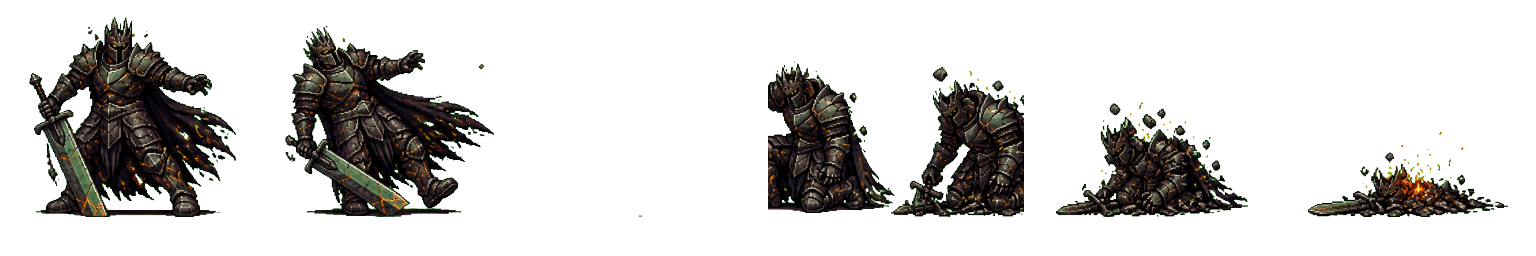
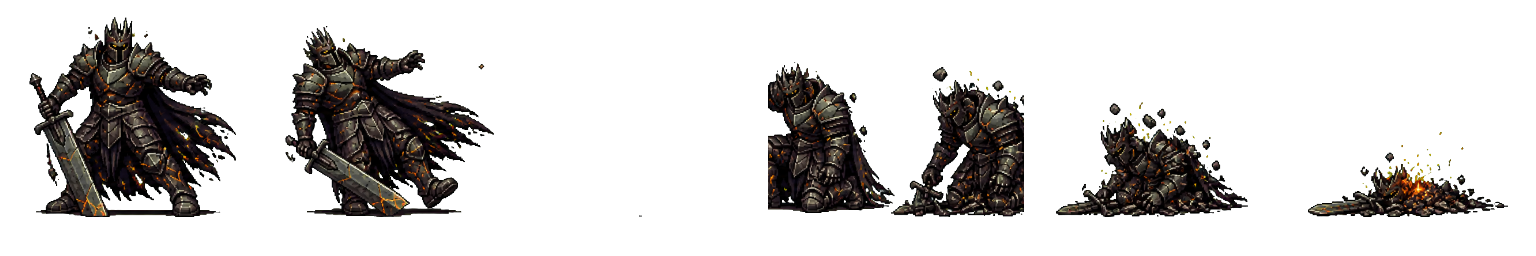
fix: 보스 전환 그림 — 알·깨짐 잘림, 효과 흘러감, 초록 번짐
- 잘림: 그림이 있는 범위를 6등분하던 것(ForceEqualSplit)이 원본 칸 격자와 16~30px 어긋나,
  공이 곧게 잘리고 옆 칸 조각이 비쳤다. 전환 이펙트 셋은 원본 칸(362px) 경계 ±48px에서
  가장 빈 세로줄로 자른다(CellGridSheets)
- 흘러감: 프레임마다 그림 크기로 가운데를 다시 잡아 모임 중심이 6장 동안 54px 흘렀다.
  칸 격자 시트는 원본 칸 안의 자리(가로는 칸 가운데, 세로는 모든 프레임 공통 바닥)를 그대로 옮긴다
- 초록 번짐: 가장자리 보정 식이 항등식((g−(1−α)g)/α = g)이라 아무것도 안 했다.
  초록 배경 원본 뒤에 Despill(G ≤ max(R,B))을 붙였다
- 새 메뉴 그림 → 보스 전환 그림 고치기: 전환 이펙트 3장을 새 방식으로 다시 만들고,
  보스 1페이즈 시트 6장은 배치는 두고 초록 번짐만 뺀다(1페이즈 칼이 잿빛이 된다)

diff --git a/Assets/Editor/AshSpriteSheetNormalizer.cs b/Assets/Editor/AshSpriteSheetNormalizer.cs
@@ -43,10 +43,41 @@ public static class AshSpriteSheetNormalizer
         new System.Collections.Generic.HashSet<string>
         {
             "ash-king-phase2-hit-death.png",
+
+            // 수정(2026-09-21) — 전환 이펙트 셋(gather·egg·shatter)은 여기서 빼서 CellGridSheets로 옮겼다.
+            // 이유는 CellGridSheets 주석에 적었다.
+        };
+
+    /// <summary>
+    /// 추가 생성(2026-09-21, 알·깨짐 잘림) — <b>원본 칸 격자대로</b> 자르고, 칸 안의 자리를 그대로 지키는 시트.
+    ///
+    /// 전환 이펙트 원본은 2172×724 그림에 <b>362px 칸 여섯 개</b>로 그려져 있다. 예전에는 위
+    /// ForceEqualSplit으로 "그림이 있는 범위"(예: x 79~2154)를 6등분했는데, 그 범위는 칸 격자와
+    /// 시작점이 다르고 폭도 달라서 경계가 칸마다 16~30px씩 밀렸다. 그래서 알·깨짐의 공이
+    /// <b>한쪽이 곧게 잘리고, 옆 칸 조각이 칸 오른쪽에 비쳤다.</b>
+    ///
+    /// 여기 적힌 시트는 두 가지가 다르다.
+    /// <list type="bullet">
+    /// <item><b>자르기</b> — 칸 경계(width/프레임 수의 배수) 근처 ±<see cref="CellCutSearch"/>px에서
+    /// 그림이 가장 적은 세로줄을 찾아 자른다. 소용돌이 팔이 칸 경계를 살짝 넘어도 안 잘린다.</item>
+    /// <item><b>자리</b> — 프레임마다 그림 크기로 가운데를 다시 잡지 않고, <b>원본 칸 안의 자리를
+    /// 그대로</b> 옮긴다(가로는 칸 가운데 기준, 세로는 모든 프레임 공통 바닥 기준). 예전에는 팔이 한쪽으로
+    /// 뻗을 때마다 중심이 밀려 모임 효과가 6장 동안 54px 흘러갔다.</item>
+    /// </list>
+    ///
+    /// 칸을 지켜 그린 원본에만 맞는 방식이라 목록으로 적어 둔다. 자동으로 판정하면 캐릭터 시트처럼
+    /// 칸 없이 그려진 원본까지 흔들 수 있다.
+    /// </summary>
+    private static readonly System.Collections.Generic.HashSet<string> CellGridSheets =
+        new System.Collections.Generic.HashSet<string>
+        {
             "vfx_ashking_transition_gather_6frames_1536x256.png",
             "vfx_ashking_transition_egg_6frames_1536x256.png",
             "vfx_ashking_transition_shatter_6frames_1536x256.png",
         };
+
+    /// <summary>추가 생성(2026-09-21) — 칸 경계에서 가장 빈 줄을 찾을 거리(px). 원본 칸(362px)의 약 1/8.</summary>
+    private const int CellCutSearch = 48;
 
     /// <summary>
     /// 배치 방식. 기준점이 서로 다르다.
@@ -363,6 +394,106 @@ public static class AshSpriteSheetNormalizer
     /// 확인해야 한다. 정렬 규칙을 고친 직후에는 특히 나쁘다 — 무엇이 왜 달라진 건지
     /// 구별할 수 없다. PowerShell 정규화 도구에 -Only를 넣었던 것과 같은 판단이다.
     /// </summary>
+    /// <summary>
+    /// 추가 생성(2026-09-21, 페이즈 전환 고치기) — 보스 1페이즈 시트들. 초록 번짐만 빼고 배치는 그대로 둔다.
+    /// </summary>
+    private static readonly string[] BossPhase1Sheets =
+    {
+        "ash-king-idle.png",
+        "ash-king-walk.png",
+        "ash-king-slam.png",
+        "ash-king-ember-wave.png",
+        "ash-king-hit-death.png",
+        "ash-king-phase-transition.png",
+    };
+
+    /// <summary>
+    /// 추가 생성(2026-09-21, 페이즈 전환 고치기) — 전환에 필요한 그림만 한 번에 고친다.
+    ///
+    /// <list type="bullet">
+    /// <item><b>전환 이펙트 3장</b>(모임·알·깨짐) — 원본에서 새 방식(칸 격자로 자르기·칸 안 자리 지키기·
+    /// 초록 번짐 빼기)으로 다시 만든다.</item>
+    /// <item><b>보스 1페이즈 시트 6장</b> — 이미 만들어진 결과 시트에서 <b>초록 번짐만</b> 뺀다.
+    /// 칼날 전체가 초록이던 1페이즈 칼이 잿빛이 된다(사용자 선택 "번진 것이라 회색으로").</item>
+    /// </list>
+    ///
+    /// 1페이즈 시트를 원본부터 다시 정규화하지 않는 이유: 배치까지 다시 하면 발 위치·크기가 조금이라도
+    /// 달라질 수 있고, 그러면 애니메이션·콜라이더를 전부 다시 확인해야 한다. 색만 고치면 그 걱정이 없다.
+    /// 전체 정규화 메뉴를 안 쓰는 이유는 NormalizeSelected 주석과 같다 — 오늘 한 일과 상관없는 시트까지 바뀐다.
+    /// </summary>
+    [MenuItem("Tools/재의 길/그림/보스 전환 그림 고치기")]
+    public static void FixBossTransitionArt()
+    {
+        int remade = 0;
+        foreach (var (folder, source, output, frames, mode, targetHeight) in Jobs)
+        {
+            if (!CellGridSheets.Contains(output)) continue;
+
+            Normalize(folder, source, output, frames, mode, targetHeight);
+            remade++;
+        }
+
+        int cleaned = 0;
+        foreach (string sheet in BossPhase1Sheets)
+        {
+            if (DespillInPlace($"{AshKingFolder}/{sheet}")) cleaned++;
+        }
+
+        AssetDatabase.Refresh();
+        Debug.Log($"[시트 정규화] 보스 전환 그림 고치기: 전환 이펙트 {remade}/{CellGridSheets.Count}장을 다시 만들고, " +
+                  $"보스 1페이즈 시트 {cleaned}/{BossPhase1Sheets.Length}장에서 초록 번짐을 뺐다.\n" +
+                  "다음: Tools → 재의 길 → 애니메이션 → 보스 애니메이션만 생성 → " +
+                  "프리팹 → 보스 전환 다시 만들기 (타임라인 포함)");
+    }
+
+    /// <summary>
+    /// 추가 생성(2026-09-21) — 이미 만들어진 시트 PNG에서 초록 번짐만 빼서 같은 자리에 다시 쓴다.
+    /// 슬라이스 정보는 .meta에 있어서 그대로 남는다. 바뀐 픽셀이 없으면 파일을 건드리지 않는다.
+    /// </summary>
+    /// <returns>파일을 다시 썼으면 true.</returns>
+    private static bool DespillInPlace(string path)
+    {
+        if (!File.Exists(path))
+        {
+            Debug.LogWarning($"[시트 정규화] 초록 번짐을 뺄 시트를 못 찾았다: {path}");
+            return false;
+        }
+
+        var texture = new Texture2D(2, 2, TextureFormat.RGBA32, false);
+        if (!texture.LoadImage(File.ReadAllBytes(path)))
+        {
+            Object.DestroyImmediate(texture);
+            Debug.LogError($"[시트 정규화] PNG 디코딩 실패: {path}");
+            return false;
+        }
+
+        Color32[] pixels = texture.GetPixels32();
+        Color32[] before = (Color32[])pixels.Clone();
+        Despill(pixels);
+
+        bool changed = false;
+        for (int i = 0; i < pixels.Length && !changed; i++)
+        {
+            if (pixels[i].g != before[i].g) changed = true;
+        }
+
+        if (!changed)
+        {
+            Object.DestroyImmediate(texture);
+            return false;
+        }
+
+        texture.SetPixels32(pixels);
+        texture.Apply();
+        byte[] png = texture.EncodeToPNG();
+        Object.DestroyImmediate(texture);
+
+        if (!WritePng(path, png)) return false;
+
+        AssetDatabase.ImportAsset(path, ImportAssetOptions.ForceUpdate);
+        return true;
+    }
+
     [MenuItem("Tools/재의 길/그림/원본 시트 정규화 (고른 것만)")]
     public static void NormalizeSelected()
     {
@@ -441,10 +572,17 @@ public static class AshSpriteSheetNormalizer
         else
         {
             RemoveBackground(pixels);
+
+            // 추가 생성(2026-09-21, 초록 번짐) — 초록 배경을 뺀 뒤 가장자리에 남은 초록기를 누른다.
+            Despill(pixels);
         }
 
+        // 수정(2026-09-21) — 칸 격자 시트인지 한 번만 판단해서 자르기와 배치 양쪽에 같이 넘긴다.
+        // 둘 중 한쪽만 칸 기준이면 자른 조각을 엉뚱한 자리에 놓게 된다.
+        bool cellGrid = CellGridSheets.Contains(outputName);
+
         var figures = FindFigures(pixels, width, height, expectedFrames,
-                                  ForceEqualSplit.Contains(outputName));
+                                  ForceEqualSplit.Contains(outputName), cellGrid);
         if (figures.Count != expectedFrames)
         {
             Debug.LogError($"[시트 정규화] {sourceName}에서 프레임을 {figures.Count}개 만들었는데 " +
@@ -452,7 +590,7 @@ public static class AshSpriteSheetNormalizer
             return;
         }
 
-        Compose(pixels, width, height, figures, folder, outputName, mode, targetHeight);
+        Compose(pixels, width, height, figures, folder, outputName, mode, targetHeight, cellGrid);
     }
 
     // ── 1단계: 배경 제거 ──────────────────────────────────────────────────
@@ -511,10 +649,39 @@ public static class AshSpriteSheetNormalizer
             float alpha = (BackgroundGreenness - greenness) /
                           (float)(BackgroundGreenness - OpaqueGreenness);
 
+            // 수정(2026-09-21) 메모 — 아래 두 줄은 계산하면 <b>아무것도 안 바꾼다.</b>
+            // (g − (1−α)·g) / α = α·g / α = g. 섞인 초록을 빼려던 식인데, 빼는 양을 배경 초록이 아니라
+            // 이 픽셀 자신의 g로 잡아서 항등식이 됐다. 전환 그림의 보이는 픽셀 10~21%에 초록기가 남은
+            // 원인이다. 실제로 초록을 누르는 일은 이 함수 다음에 불리는 Despill이 한다 — 식을 고치는
+            // 대신 따로 둔 이유는 Despill 주석에 적었다.
             float bleed = (1f - alpha) * p.g;
             byte g = (byte)Mathf.Clamp((p.g - bleed) / alpha, 0f, 255f);
 
             pixels[i] = new Color32(p.r, g, p.b, (byte)Mathf.RoundToInt(alpha * 255f));
+        }
+    }
+
+    /// <summary>
+    /// 추가 생성(2026-09-21, 초록 번짐) — G를 R·B 중 큰 값 아래로 누른다.
+    ///
+    /// 초록 배경 앞에서 그린 그림은 가장자리와 반사광에 초록이 스민다. 배경색을 역산해 빼는
+    /// 정석은 배경 초록이 정확히 한 색이어야 하는데, 생성 그림의 배경은 칸마다 조금씩 다르다.
+    /// <b>이 게임 팔레트에는 초록이 없으므로</b> "초록이 R·B보다 튀어나온 만큼은 전부 번진 것"으로
+    /// 보고 잘라내는 쪽이 어떤 배경에서도 맞는다. 회색·주황·흰색은 G가 원래 max(R,B) 이하라
+    /// 바뀌지 않는다.
+    ///
+    /// 1페이즈 칼(칼날 전체가 초록이던 것)도 여기서 잿빛 돌칼이 된다 — 2026-09-21 사용자가
+    /// "번진 것이라 회색으로"를 골랐다.
+    /// </summary>
+    private static void Despill(Color32[] pixels)
+    {
+        for (int i = 0; i < pixels.Length; i++)
+        {
+            Color32 p = pixels[i];
+            if (p.a == 0) continue;
+
+            byte limit = (byte)Mathf.Max(p.r, p.b);
+            if (p.g > limit) pixels[i] = new Color32(p.r, limit, p.b, p.a);
         }
     }
 
@@ -525,6 +692,10 @@ public static class AshSpriteSheetNormalizer
         public int MinX, MaxX, MinY, MaxY;
         public int LegCenterX;
 
+        // 추가 생성(2026-09-21) — 칸 격자 시트에서 이 프레임이 원래 있던 원본 칸의 가운데(x).
+        // 배치할 때 "칸 가운데에서 얼마나 떨어져 있었나"를 그대로 옮기는 데 쓴다.
+        public float CellCenterX;
+
         public int Width => MaxX - MinX + 1;
         public int Height => MaxY - MinY + 1;
     }
@@ -534,7 +705,8 @@ public static class AshSpriteSheetNormalizer
     /// 원하는 프레임 수가 N이면 경계는 N-1개다. 빈 구간을 넓은 순서로 정렬해 위쪽 N-1개를 쓴다.
     /// </summary>
     private static List<Figure> FindFigures(
-        Color32[] pixels, int width, int height, int expectedFrames, bool forceEqualSplit)
+        Color32[] pixels, int width, int height, int expectedFrames, bool forceEqualSplit,
+        bool cellGrid = false)
     {
         var columnCounts = new int[width];
         for (int y = 0; y < height; y++)
@@ -558,6 +730,10 @@ public static class AshSpriteSheetNormalizer
 
         var figures = new List<Figure>();
         if (contentStart < 0) return figures;
+
+        // 추가 생성(2026-09-21) — 칸 격자 시트는 원본 칸 경계 근처의 가장 빈 줄에서 자른다.
+        // 이유는 CellGridSheets 주석 참고.
+        if (cellGrid) return SplitByCellGrid(pixels, width, height, expectedFrames, columnCounts);
 
         var gaps = new List<(int start, int end)>();
         int gapStart = -1;
@@ -616,6 +792,56 @@ public static class AshSpriteSheetNormalizer
         return figures;
     }
 
+    /// <summary>
+    /// 추가 생성(2026-09-21) — 원본 칸 격자대로 자른다(<see cref="CellGridSheets"/>).
+    ///
+    /// 경계는 칸의 배수(width × k ÷ 프레임 수) 근처 ±<see cref="CellCutSearch"/>px 안에서 그림이 가장
+    /// 적은 세로줄이다. 딱 배수에서 자르지 않는 이유: 소용돌이 팔이 칸 경계를 몇 px 넘어 그려진
+    /// 프레임이 있다. 배수에서 곧장 자르면 그 팔 끝이 옆 칸으로 넘어가 다시 "잘린 조각"이 된다.
+    ///
+    /// 자른 뒤에는 조각 안에서 실제 그림이 있는 가로 범위로 좁힌다. 배율은 가장 큰 프레임을
+    /// 기준으로 정하는데, 빈 여백까지 포함한 칸 폭(362px)으로 재면 그림이 필요 이상 작아진다.
+    /// </summary>
+    private static List<Figure> SplitByCellGrid(
+        Color32[] pixels, int width, int height, int frames, int[] columnCounts)
+    {
+        var figures = new List<Figure>();
+        float cellWidth = width / (float)frames;
+
+        var cuts = new int[frames + 1];
+        cuts[0] = 0;
+        cuts[frames] = width;
+        for (int k = 1; k < frames; k++)
+        {
+            int center = Mathf.RoundToInt(k * cellWidth);
+            int best = center;
+            int from = Mathf.Max(1, center - CellCutSearch);
+            int to = Mathf.Min(width - 2, center + CellCutSearch);
+            for (int x = from; x <= to; x++)
+            {
+                if (columnCounts[x] < columnCounts[best]) best = x;
+            }
+
+            cuts[k] = best;
+        }
+
+        for (int i = 0; i < frames; i++)
+        {
+            int from = cuts[i];
+            int to = cuts[i + 1] - 1;
+
+            // 조각 안의 실제 그림 범위로 좁힌다. 티끌을 거르는 기준은 다른 경로와 같은 MinColumnPixels다.
+            while (from < to && columnCounts[from] < MinColumnPixels) from++;
+            while (to > from && columnCounts[to] < MinColumnPixels) to--;
+
+            Figure figure = MeasureFigure(pixels, width, height, from, to);
+            figure.CellCenterX = (i + 0.5f) * cellWidth;
+            figures.Add(figure);
+        }
+
+        return figures;
+    }
+
     /// <summary>프레임 하나의 세로 범위와 다리 중심을 잰다.</summary>
     private static Figure MeasureFigure(
         Color32[] pixels, int width, int height, int minX, int maxX)
@@ -667,7 +893,8 @@ public static class AshSpriteSheetNormalizer
     // ── 3단계: 재배치 ─────────────────────────────────────────────────────
 
     private static void Compose(Color32[] pixels, int width, int height, List<Figure> figures,
-                                string folder, string outputName, Mode mode, int targetHeight)
+                                string folder, string outputName, Mode mode, int targetHeight,
+                                bool cellGrid = false)
     {
         int cell = AshPlayerSpriteSheets.CellSize;
         int groundY = AshPlayerSpriteSheets.GroundLineY - 1; // 발끝이 놓일 행(216)
@@ -698,6 +925,15 @@ public static class AshSpriteSheetNormalizer
 
         int outWidth = cell * figures.Count;
         var output = new Color32[outWidth * cell];
+
+        // 추가 생성(2026-09-21) — 칸 격자 시트는 <b>모든 프레임이 바닥 하나를 같이 쓴다.</b>
+        // 가장 낮게 그려진 프레임의 바닥이 지면선에 닿고, 나머지는 원본에서 그만큼 떠 있던 높이를 지킨다.
+        // 프레임마다 자기 바닥을 지면선에 붙이면 공이 커질 때마다 위로 들썩인다.
+        int unionBottom = int.MaxValue;
+        if (cellGrid)
+        {
+            foreach (var f in figures) unionBottom = Mathf.Min(unionBottom, f.MinY);
+        }
 
         // 배치 좌표를 여기서 계산해 넘긴다. 계산과 그리기가 한 함수에 섞여 있으면
         // 결과가 어긋났을 때 어느 쪽이 틀린 건지 밖에서 볼 수가 없다.
@@ -749,6 +985,17 @@ public static class AshSpriteSheetNormalizer
             else
             {
                 destLeft = (cell - drawWidth) / 2;
+            }
+
+            // 추가 생성(2026-09-21, 효과가 흘러감) — 칸 격자 시트는 원본 칸 안의 자리를 그대로 옮긴다.
+            //
+            // 위의 가운데 맞춤은 <b>그림 크기</b>로 가운데를 잡아서, 소용돌이 팔이 한쪽으로 뻗은 프레임은
+            // 중심이 반대로 밀린다. 원본은 칸 가운데를 기준으로 제자리에 그려져 있으므로
+            // "칸 가운데에서 얼마나 떨어져 있었나"를 배율만 곱해 옮기면 흔들림이 사라진다.
+            if (cellGrid)
+            {
+                destLeft = (cell / 2) + Mathf.RoundToInt((figure.MinX - figure.CellCenterX) * scale);
+                destTop = groundFromBottom + Mathf.RoundToInt((figure.MinY - unionBottom) * scale);
             }
 
             DrawFigure(pixels, width, height, figure, output, outWidth, cell, i,
